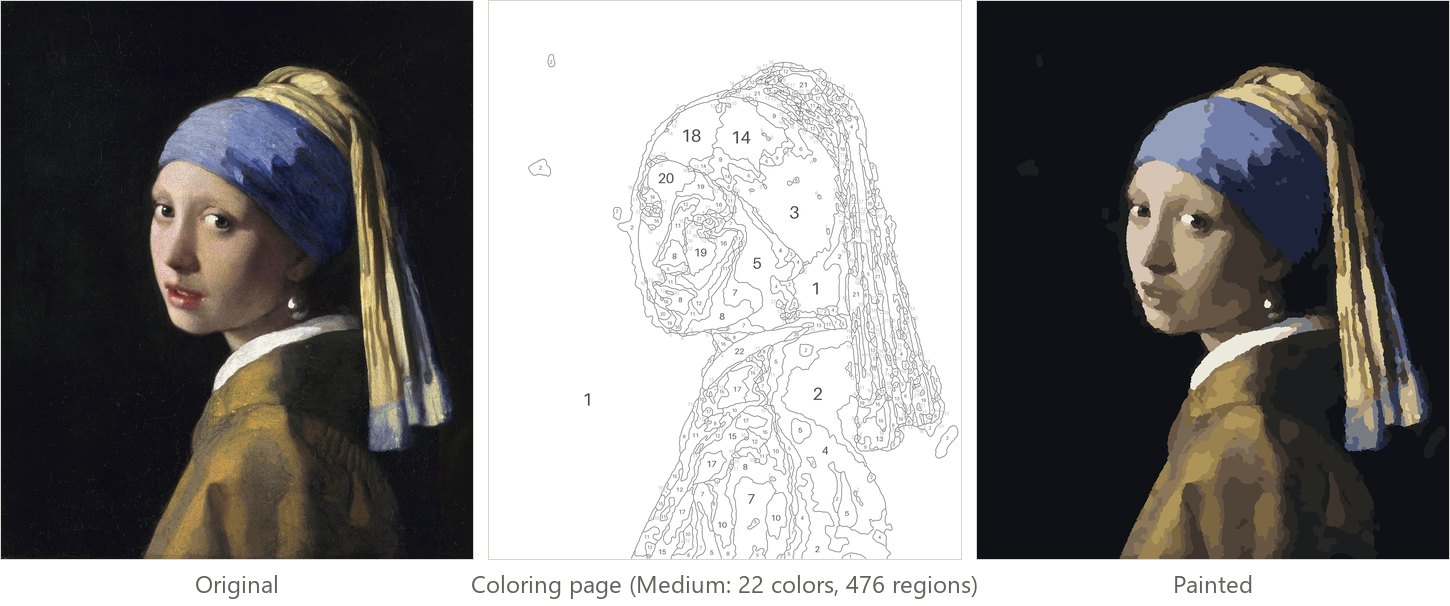
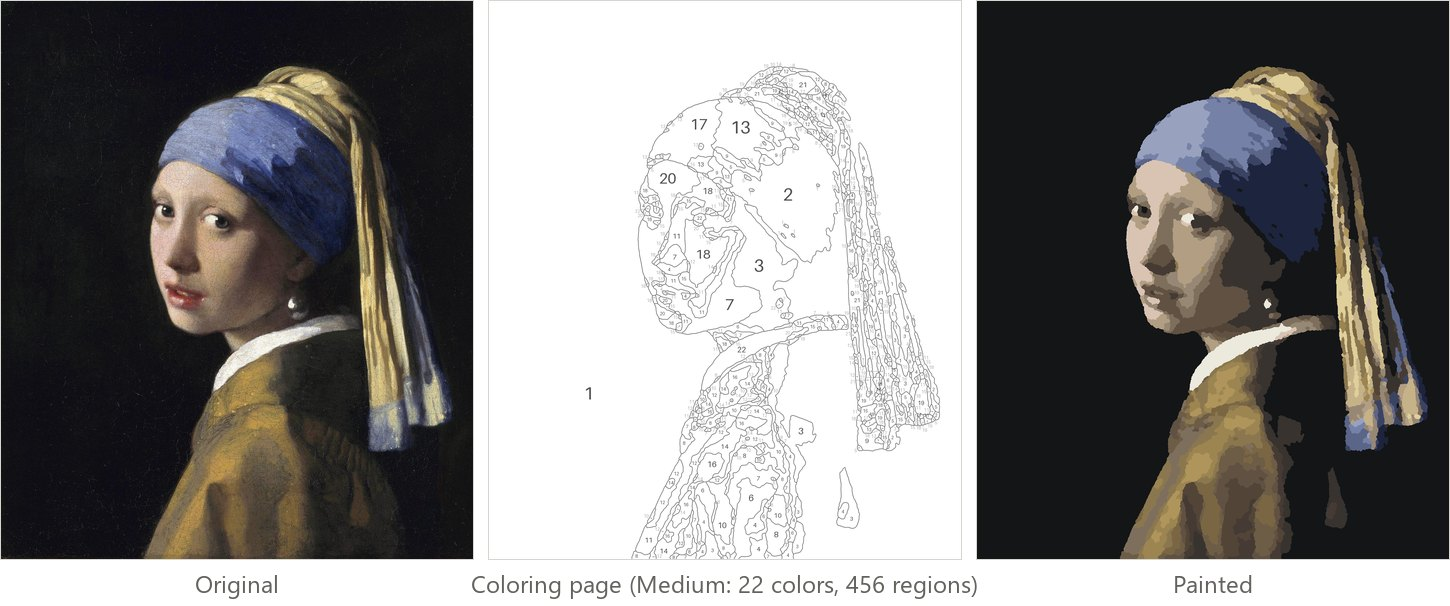
Regenerate the gallery and screenshot; the dark portrait joins the gallery
Claude-Session: https://claude.ai/code/session_01M1aAk9jA8PBCzPqiy2Xr4d

diff --git a/docs/make_assets.py b/docs/make_assets.py
@@ -38,6 +38,7 @@ GALLERY = ROOT / "docs" / "gallery"
 GALLERY_ITEMS = [
     ("photo-lion", "l-photo-lion.jpg", "Medium"),
     ("painting-portrait", "l-painting-face-girl-with-a-pearl-earring.jpg", "Medium"),
+    ("painting-dark-portrait", "l-painting-face-juan-de-pareja.jpg", "Medium"),
     ("cartoon-line-art", "m-cartoon-bold-lines-girl.png", "Medium"),
     ("comic-text", "m-comics-upside-downs-writing-pig.jpg", "Medium"),
     ("photo-castle", "l-photo-switzerland-castle.jpg", "Medium"),

diff --git a/wiki/Gallery.md b/wiki/Gallery.md
@@ -26,6 +26,10 @@ domain ([sources](https://github.com/maximshilo/tessellatum/blob/main/tests/samp
 **A portrait.** Face detection keeps the eyes, nose and mouth, and the skin settles into a few large tones.
 ![Portrait](https://raw.githubusercontent.com/maximshilo/tessellatum/main/docs/gallery/painting-portrait.jpg)
 
+**A dark portrait.** Most of the picture is near-black, which paper prints as one black, so the legend keeps only the
+darks paper tells apart and spends its colors on the face and the collar, whose shading the face detection keeps.
+![Dark portrait](https://raw.githubusercontent.com/maximshilo/tessellatum/main/docs/gallery/painting-dark-portrait.jpg)
+
 ## Line art
 
 **A bold-line cartoon.** The ink is printed in black and the palette is the artist's own fill colors.

diff --git a/CHANGELOG.md b/CHANGELOG.md
@@ -22,6 +22,8 @@ Each release's notes on GitHub are its section below.
   S-CIELAB, the error as the eye sees the page from 40 cm (informational). The verdict allows the trade the printed
   palette makes, a little more error in a large dark area for better colors elsewhere, within set bounds. The
   benchmark also takes a preset colored on a screen, such as `Medium-Screen`.
+- A dark portrait among the benchmark images: Velázquez's *Juan de Pareja* (The Met, CC0), a dark-skinned face
+  in a dark painting; it is in the gallery too.
 
 ## [1.0.15] - 2026-11-23
 
